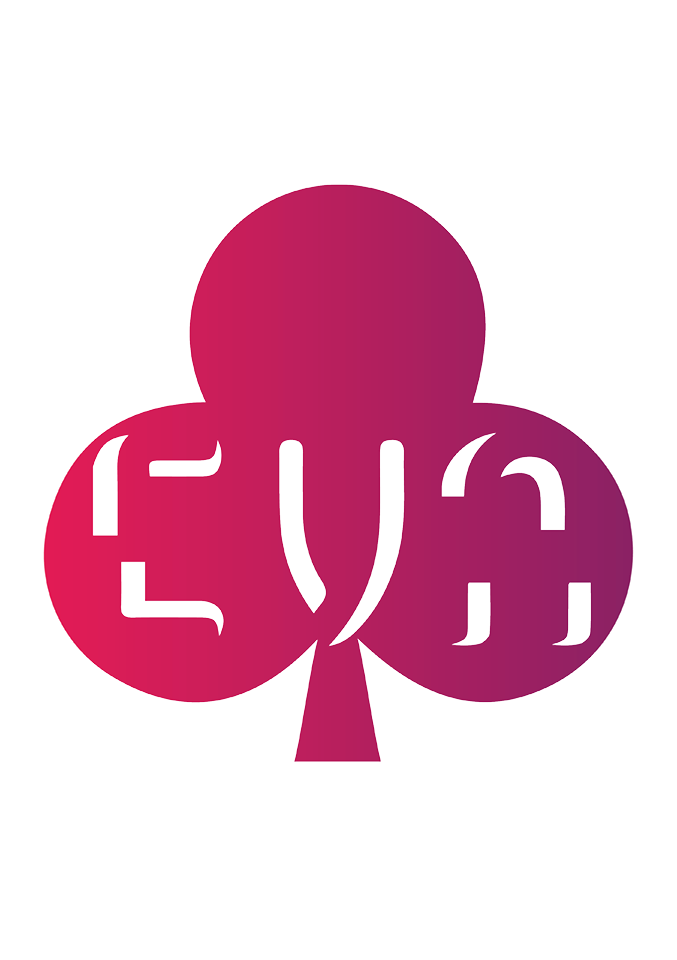
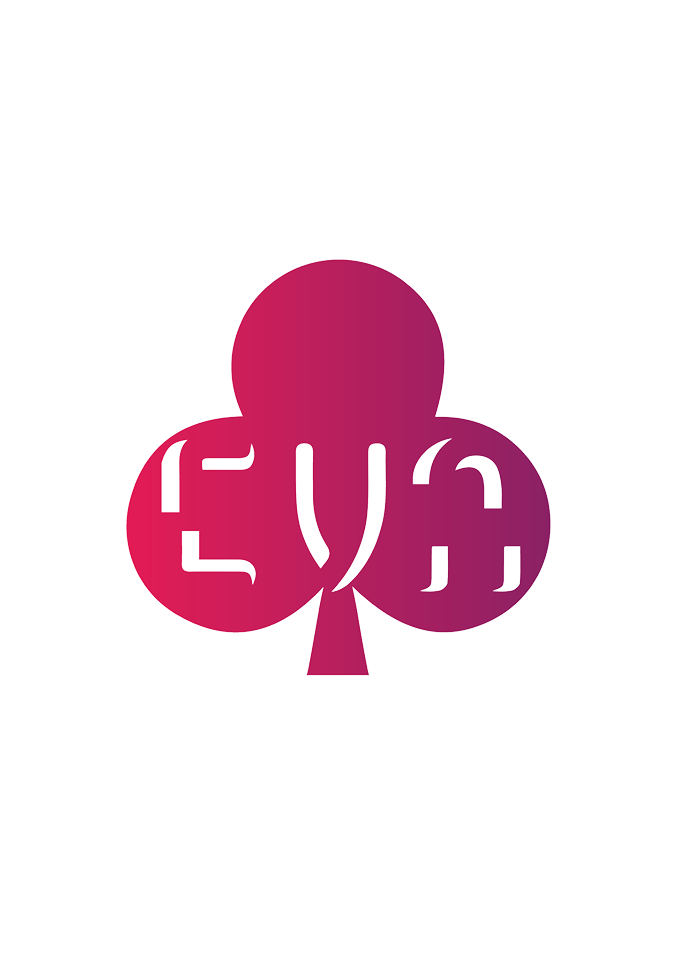
nova imagen

Changed region(s): [[0.062, 0.1875, 0.9616, 0.8125]]

diff --git a/sketch.js b/sketch.js
@@ -26,7 +26,6 @@ function draw() {
 
   background(255);
   noFill();
-  stroke(0);
   //rect (width/2, height/2, 500, 750, 20);
   //rectMode (CENTER);
 
@@ -35,7 +34,7 @@ function draw() {
   {
     beginShape();
     var xoff = 0;
-    for (var x=0; x<width+10; x+=10) 
+    for (var x=0; x<width+5; x+=5) 
     { // Criar noise 
       var a = noise(xoff, yoff)+1;
       // defenir vertex
